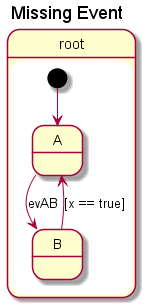
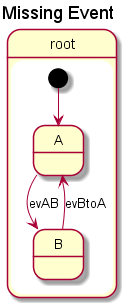
Missing event repair coded

diff --git a/code/apmissingevent.py b/code/apmissingevent.py
@@ -1,3 +1,4 @@
+from sismic.model.elements import Transition
 from antipatternbase import AntiPatternBase
 from statechart import Statechart
 
@@ -11,7 +12,7 @@ class APMissingEvent(AntiPatternBase):
 
         for transition in statechart.statechart.transitions:
             if not transition.event and transition.guard:
-                self.transitionsFound.append(transition)
+                self.repair(statechart, transition)
                 bReturn = True
                 self.hitCountTransition += 1
         
@@ -20,3 +21,10 @@ class APMissingEvent(AntiPatternBase):
             statechart.hasMissingEvent = True
         
         return bReturn
+
+    def repair(self, statechart: Statechart, transition: Transition):
+        sourceStateString = transition.source
+        targetStateString = transition.target
+        eventString = 'ev' + sourceStateString + 'to' + targetStateString
+        transition.event = eventString
+        transition.guard = ''
